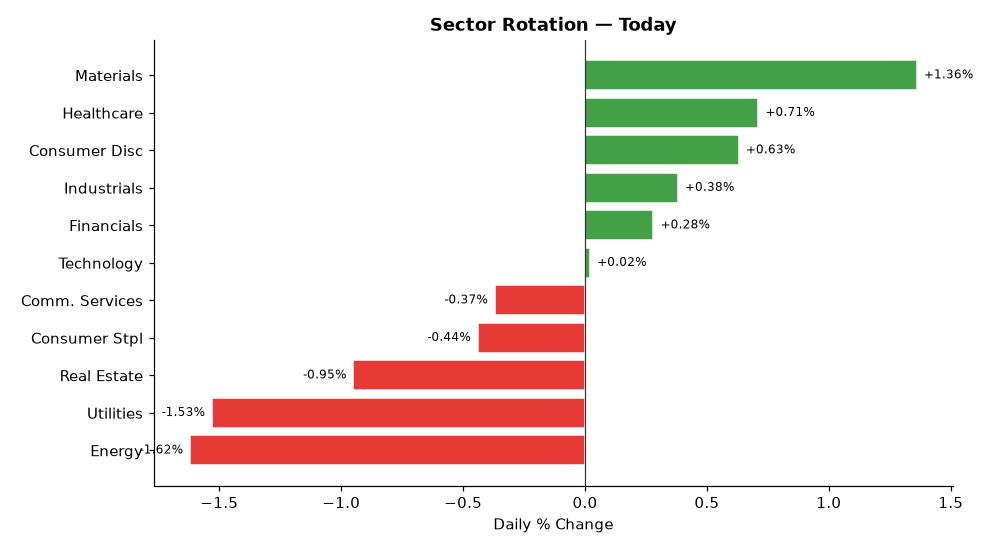
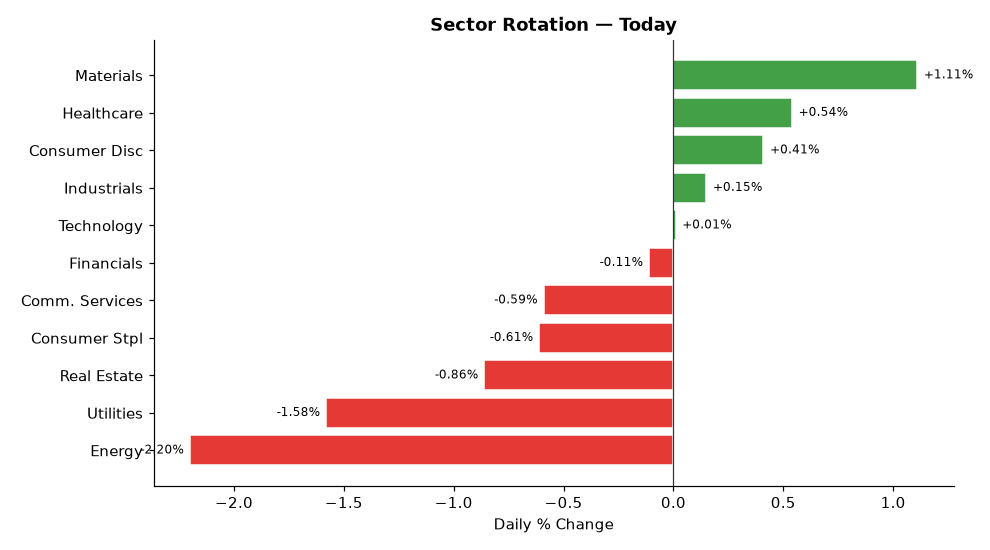
deploy: b7fadf5b06deb90e7ebb92f278722414bdd9750d

diff --git a/index.html b/index.html
@@ -4,7 +4,7 @@
   <meta charset="UTF-8">
   <meta name="viewport" content="width=device-width,initial-scale=1">
   <meta http-equiv="Cache-Control" content="no-cache,no-store,must-revalidate">
-  <title>Stock Breakout Screener — 2026-08-05 15:10</title>
+  <title>Stock Breakout Screener — 2026-08-05 15:36</title>
   <style>
     *{box-sizing:border-box;margin:0;padding:0}
     body{font-family:'Segoe UI',Arial,sans-serif;background:#f0f2f5;
@@ -34,7 +34,7 @@
 
 <div class="hdr">
   <h1>📈 Stock Breakout Screener</h1>
-  <p>Updated: 2026-08-05 15:10 UTC &nbsp;·&nbsp; Phase: Regular Market Hours &nbsp;·&nbsp;
+  <p>Updated: 2026-08-05 15:36 UTC &nbsp;·&nbsp; Phase: Regular Market Hours &nbsp;·&nbsp;
      129 stocks screened &nbsp;·&nbsp; Top 5 by conviction score</p>
 </div>
 
@@ -69,7 +69,7 @@
             </span>
           </div>
           <ul style="margin:0;padding-left:18px;font-size:13px;
-                     color:#333;line-height:1.8"><li style="margin:5px 0"><span style="background:#ffebee;color:#b71c1c;padding:2px 7px;border-radius:4px;font-size:11px;">❌</span> Volume: <b>0.8× average</b> — Above-average activity</li><li style="margin:5px 0"><span style="background:#ffebee;color:#b71c1c;padding:2px 7px;border-radius:4px;font-size:11px;">❌</span> Candle: close <b>$283.14</b> vs open <b>$278.00</b> (+1.8%) — regular market close</li><li style="margin:5px 0"><span style="background:#e8f5e9;color:#2e7d32;padding:2px 7px;border-radius:4px;font-size:11px;">✅</span> 200-Day MA: price <b>$283.14</b> vs MA <b>$271.78</b> — <b>✅ Above</b> long-term trend</li><li style="margin:5px 0"><span style="background:#e8f5e9;color:#2e7d32;padding:2px 7px;border-radius:4px;font-size:11px;">✅</span> Inst. ownership: <b>93.2%</b> · MFI: <b>64.7</b> · Market cap: <b>$80.1B</b></li></ul>
+                     color:#333;line-height:1.8"><li style="margin:5px 0"><span style="background:#ffebee;color:#b71c1c;padding:2px 7px;border-radius:4px;font-size:11px;">❌</span> Volume: <b>0.2× average</b> — Above-average activity</li><li style="margin:5px 0"><span style="background:#ffebee;color:#b71c1c;padding:2px 7px;border-radius:4px;font-size:11px;">❌</span> Candle: close <b>$283.30</b> vs open <b>$285.00</b> (-0.6%) — regular market close</li><li style="margin:5px 0"><span style="background:#e8f5e9;color:#2e7d32;padding:2px 7px;border-radius:4px;font-size:11px;">✅</span> 200-Day MA: price <b>$283.30</b> vs MA <b>$271.77</b> — <b>✅ Above</b> long-term trend</li><li style="margin:5px 0"><span style="background:#e8f5e9;color:#2e7d32;padding:2px 7px;border-radius:4px;font-size:11px;">✅</span> Inst. ownership: <b>93.2%</b> · MFI: <b>64.9</b> · Market cap: <b>$79.7B</b></li></ul>
         </div>
         <div style="background:#fff;border:1px solid #ddd;border-radius:10px;
                     padding:16px 20px;margin-bottom:12px;
@@ -77,24 +77,7 @@
           <div style="display:flex;align-items:center;gap:10px;
                       flex-wrap:wrap;margin-bottom:10px">
             <span style="font-size:22px">🟡</span>
-            <span style="font-size:19px;font-weight:700">2. EBAY</span>
-            <span style="font-size:12px;color:#666">Consumer Disc</span>
-            <span style="margin-left:auto;background:#1a237e;color:#fff;
-                         padding:3px 12px;border-radius:12px;
-                         font-size:13px;font-weight:600">
-              11/17
-            </span>
-          </div>
-          <ul style="margin:0;padding-left:18px;font-size:13px;
-                     color:#333;line-height:1.8"><li style="margin:5px 0"><span style="background:#ffebee;color:#b71c1c;padding:2px 7px;border-radius:4px;font-size:11px;">❌</span> Volume: <b>0.9× average</b> — Above-average activity</li><li style="margin:5px 0"><span style="background:#e8f5e9;color:#2e7d32;padding:2px 7px;border-radius:4px;font-size:11px;">✅</span> Candle: close <b>$109.61</b> vs open <b>$106.20</b> (+3.2%) — regular market close</li><li style="margin:5px 0"><span style="background:#e8f5e9;color:#2e7d32;padding:2px 7px;border-radius:4px;font-size:11px;">✅</span> 200-Day MA: price <b>$109.61</b> vs MA <b>$102.13</b> — <b>✅ Above</b> long-term trend</li><li style="margin:5px 0"><span style="background:#e8f5e9;color:#2e7d32;padding:2px 7px;border-radius:4px;font-size:11px;">✅</span> Inst. ownership: <b>95.2%</b> · MFI: <b>39.7</b> · Market cap: <b>$48.2B</b></li><li style="margin:5px 0"><span style="background:#e8f5e9;color:#2e7d32;padding:2px 7px;border-radius:4px;font-size:11px;">✅</span> Last similar breakout: <b>Apr 30, 2026</b> → <b>+9.4%</b> over 10 trading days</li></ul>
-        </div>
-        <div style="background:#fff;border:1px solid #ddd;border-radius:10px;
-                    padding:16px 20px;margin-bottom:12px;
-                    box-shadow:0 2px 6px rgba(0,0,0,.07)">
-          <div style="display:flex;align-items:center;gap:10px;
-                      flex-wrap:wrap;margin-bottom:10px">
-            <span style="font-size:22px">🟡</span>
-            <span style="font-size:19px;font-weight:700">3. MSFT</span>
+            <span style="font-size:19px;font-weight:700">2. MSFT</span>
             <span style="font-size:12px;color:#666">Technology</span>
             <span style="margin-left:auto;background:#1a237e;color:#fff;
                          padding:3px 12px;border-radius:12px;
@@ -103,7 +86,7 @@
             </span>
           </div>
           <ul style="margin:0;padding-left:18px;font-size:13px;
-                     color:#333;line-height:1.8"><li style="margin:5px 0"><span style="background:#ffebee;color:#b71c1c;padding:2px 7px;border-radius:4px;font-size:11px;">❌</span> Volume: <b>0.3× average</b> — Above-average activity</li><li style="margin:5px 0"><span style="background:#ffebee;color:#b71c1c;padding:2px 7px;border-radius:4px;font-size:11px;">❌</span> Candle: close <b>$489.94</b> vs open <b>$496.36</b> (-1.3%) — regular market close</li><li style="margin:5px 0"><span style="background:#e8f5e9;color:#2e7d32;padding:2px 7px;border-radius:4px;font-size:11px;">✅</span> 200-Day MA: price <b>$489.94</b> vs MA <b>$401.37</b> — <b>✅ Above</b> long-term trend</li><li style="margin:5px 0"><span style="background:#e8f5e9;color:#2e7d32;padding:2px 7px;border-radius:4px;font-size:11px;">✅</span> Inst. ownership: <b>75.4%</b> · MFI: <b>78.2</b> · Market cap: <b>$3638.5B</b></li><li style="margin:5px 0"><span style="background:#e8f5e9;color:#2e7d32;padding:2px 7px;border-radius:4px;font-size:11px;">✅</span> Last similar breakout: <b>Jul 30, 2026</b> → <b>+8.6%</b> over 10 trading days</li></ul>
+                     color:#333;line-height:1.8"><li style="margin:5px 0"><span style="background:#ffebee;color:#b71c1c;padding:2px 7px;border-radius:4px;font-size:11px;">❌</span> Volume: <b>0.3× average</b> — Above-average activity</li><li style="margin:5px 0"><span style="background:#ffebee;color:#b71c1c;padding:2px 7px;border-radius:4px;font-size:11px;">❌</span> Candle: close <b>$490.05</b> vs open <b>$496.36</b> (-1.3%) — regular market close</li><li style="margin:5px 0"><span style="background:#e8f5e9;color:#2e7d32;padding:2px 7px;border-radius:4px;font-size:11px;">✅</span> 200-Day MA: price <b>$490.05</b> vs MA <b>$401.37</b> — <b>✅ Above</b> long-term trend</li><li style="margin:5px 0"><span style="background:#e8f5e9;color:#2e7d32;padding:2px 7px;border-radius:4px;font-size:11px;">✅</span> Inst. ownership: <b>75.4%</b> · MFI: <b>78.3</b> · Market cap: <b>$3639.1B</b></li><li style="margin:5px 0"><span style="background:#e8f5e9;color:#2e7d32;padding:2px 7px;border-radius:4px;font-size:11px;">✅</span> Last similar breakout: <b>Jul 30, 2026</b> → <b>+8.6%</b> over 10 trading days</li></ul>
         </div>
         <div style="background:#fff;border:1px solid #ddd;border-radius:10px;
                     padding:16px 20px;margin-bottom:12px;
@@ -111,7 +94,7 @@
           <div style="display:flex;align-items:center;gap:10px;
                       flex-wrap:wrap;margin-bottom:10px">
             <span style="font-size:22px">🟡</span>
-            <span style="font-size:19px;font-weight:700">4. EQIX</span>
+            <span style="font-size:19px;font-weight:700">3. EQIX</span>
             <span style="font-size:12px;color:#666">Real Estate</span>
             <span style="margin-left:auto;background:#1a237e;color:#fff;
                          padding:3px 12px;border-radius:12px;
@@ -120,7 +103,7 @@
             </span>
           </div>
           <ul style="margin:0;padding-left:18px;font-size:13px;
-                     color:#333;line-height:1.8"><li style="margin:5px 0"><span style="background:#ffebee;color:#b71c1c;padding:2px 7px;border-radius:4px;font-size:11px;">❌</span> Volume: <b>1.2× average</b> — Above-average activity</li><li style="margin:5px 0"><span style="background:#e8f5e9;color:#2e7d32;padding:2px 7px;border-radius:4px;font-size:11px;">✅</span> Candle: close <b>$1051.53</b> vs open <b>$1012.78</b> (+3.8%) — regular market close</li><li style="margin:5px 0"><span style="background:#e8f5e9;color:#2e7d32;padding:2px 7px;border-radius:4px;font-size:11px;">✅</span> 200-Day MA: price <b>$1051.53</b> vs MA <b>$1020.65</b> — <b>✅ Above</b> long-term trend</li><li style="margin:5px 0"><span style="background:#e8f5e9;color:#2e7d32;padding:2px 7px;border-radius:4px;font-size:11px;">✅</span> Inst. ownership: <b>100.1%</b> · MFI: <b>60.5</b> · Market cap: <b>$102.9B</b></li></ul>
+                     color:#333;line-height:1.8"><li style="margin:5px 0"><span style="background:#ffebee;color:#b71c1c;padding:2px 7px;border-radius:4px;font-size:11px;">❌</span> Volume: <b>1.2× average</b> — Above-average activity</li><li style="margin:5px 0"><span style="background:#e8f5e9;color:#2e7d32;padding:2px 7px;border-radius:4px;font-size:11px;">✅</span> Candle: close <b>$1051.53</b> vs open <b>$1012.78</b> (+3.8%) — regular market close</li><li style="margin:5px 0"><span style="background:#e8f5e9;color:#2e7d32;padding:2px 7px;border-radius:4px;font-size:11px;">✅</span> 200-Day MA: price <b>$1051.53</b> vs MA <b>$1020.65</b> — <b>✅ Above</b> long-term trend</li><li style="margin:5px 0"><span style="background:#e8f5e9;color:#2e7d32;padding:2px 7px;border-radius:4px;font-size:11px;">✅</span> Inst. ownership: <b>100.1%</b> · MFI: <b>60.7</b> · Market cap: <b>$102.8B</b></li></ul>
         </div>
         <div style="background:#fff;border:1px solid #ddd;border-radius:10px;
                     padding:16px 20px;margin-bottom:12px;
@@ -128,7 +111,7 @@
           <div style="display:flex;align-items:center;gap:10px;
                       flex-wrap:wrap;margin-bottom:10px">
             <span style="font-size:22px">🟡</span>
-            <span style="font-size:19px;font-weight:700">5. EMR</span>
+            <span style="font-size:19px;font-weight:700">4. EMR</span>
             <span style="font-size:12px;color:#666">Industrials</span>
             <span style="margin-left:auto;background:#1a237e;color:#fff;
                          padding:3px 12px;border-radius:12px;
@@ -137,7 +120,24 @@
             </span>
           </div>
           <ul style="margin:0;padding-left:18px;font-size:13px;
-                     color:#333;line-height:1.8"><li style="margin:5px 0"><span style="background:#ffebee;color:#b71c1c;padding:2px 7px;border-radius:4px;font-size:11px;">❌</span> Volume: <b>0.5× average</b> — Above-average activity</li><li style="margin:5px 0"><span style="background:#e8f5e9;color:#2e7d32;padding:2px 7px;border-radius:4px;font-size:11px;">✅</span> Candle: close <b>$163.59</b> vs open <b>$157.27</b> (+4.0%) — regular market close</li><li style="margin:5px 0"><span style="background:#e8f5e9;color:#2e7d32;padding:2px 7px;border-radius:4px;font-size:11px;">✅</span> 200-Day MA: price <b>$163.59</b> vs MA <b>$141.27</b> — <b>✅ Above</b> long-term trend</li><li style="margin:5px 0"><span style="background:#e8f5e9;color:#2e7d32;padding:2px 7px;border-radius:4px;font-size:11px;">✅</span> Inst. ownership: <b>85.5%</b> · MFI: <b>86.8</b> · Market cap: <b>$91.6B</b></li></ul>
+                     color:#333;line-height:1.8"><li style="margin:5px 0"><span style="background:#ffebee;color:#b71c1c;padding:2px 7px;border-radius:4px;font-size:11px;">❌</span> Volume: <b>0.6× average</b> — Above-average activity</li><li style="margin:5px 0"><span style="background:#e8f5e9;color:#2e7d32;padding:2px 7px;border-radius:4px;font-size:11px;">✅</span> Candle: close <b>$164.26</b> vs open <b>$157.27</b> (+4.4%) — regular market close</li><li style="margin:5px 0"><span style="background:#e8f5e9;color:#2e7d32;padding:2px 7px;border-radius:4px;font-size:11px;">✅</span> 200-Day MA: price <b>$164.26</b> vs MA <b>$141.28</b> — <b>✅ Above</b> long-term trend</li><li style="margin:5px 0"><span style="background:#e8f5e9;color:#2e7d32;padding:2px 7px;border-radius:4px;font-size:11px;">✅</span> Inst. ownership: <b>85.5%</b> · MFI: <b>86.8</b> · Market cap: <b>$92.0B</b></li></ul>
+        </div>
+        <div style="background:#fff;border:1px solid #ddd;border-radius:10px;
+                    padding:16px 20px;margin-bottom:12px;
+                    box-shadow:0 2px 6px rgba(0,0,0,.07)">
+          <div style="display:flex;align-items:center;gap:10px;
+                      flex-wrap:wrap;margin-bottom:10px">
+            <span style="font-size:22px">🟡</span>
+            <span style="font-size:19px;font-weight:700">5. AWK</span>
+            <span style="font-size:12px;color:#666">Utilities</span>
+            <span style="margin-left:auto;background:#1a237e;color:#fff;
+                         padding:3px 12px;border-radius:12px;
+                         font-size:13px;font-weight:600">
+              10/17
+            </span>
+          </div>
+          <ul style="margin:0;padding-left:18px;font-size:13px;
+                     color:#333;line-height:1.8"><li style="margin:5px 0"><span style="background:#fffde7;color:#f57f17;padding:2px 7px;border-radius:4px;font-size:11px;">⚠</span> Volume: <b>1.8× average</b> — Above-average activity</li><li style="margin:5px 0"><span style="background:#e8f5e9;color:#2e7d32;padding:2px 7px;border-radius:4px;font-size:11px;">✅</span> Candle: close <b>$134.01</b> vs open <b>$129.95</b> (+3.1%) — regular market close</li><li style="margin:5px 0"><span style="background:#e8f5e9;color:#2e7d32;padding:2px 7px;border-radius:4px;font-size:11px;">✅</span> 200-Day MA: price <b>$134.01</b> vs MA <b>$130.60</b> — <b>✅ Above</b> long-term trend</li><li style="margin:5px 0"><span style="background:#e8f5e9;color:#2e7d32;padding:2px 7px;border-radius:4px;font-size:11px;">✅</span> Inst. ownership: <b>101.1%</b> · MFI: <b>52.9</b> · Market cap: <b>$26.4B</b></li></ul>
         </div>
 
 
@@ -169,37 +169,19 @@
         <tr>
           <td style="font-weight:700;text-align:left;padding-left:10px">
             🟡 ECL</td>
-          <td style="background:#ffcdd2">0.8×</td>
-          <td style="background:#ffcdd2">+1.8%</td>
+          <td style="background:#ffcdd2">0.2×</td>
+          <td style="background:#ffcdd2">-0.6%</td>
           <td style="background:#c8e6c9">
             ▲ Above</td>
           <td style="background:#c8e6c9">
             93.2%</td>
           <td style="background:#c8e6c9">
-            64.7</td>
+            64.9</td>
           <td style="background:#c8e6c9">Materials</td>
           <td style="background:#c8e6c9">
-            43.8%</td>
+            45.5%</td>
           <td style="background:#ffcdd2">
             N/A</td>
-          <td style="font-weight:800;font-size:15px">11/17</td>
-        </tr>
-        <tr>
-          <td style="font-weight:700;text-align:left;padding-left:10px">
-            🟡 EBAY</td>
-          <td style="background:#ffcdd2">0.9×</td>
-          <td style="background:#c8e6c9">+3.2%</td>
-          <td style="background:#c8e6c9">
-            ▲ Above</td>
-          <td style="background:#c8e6c9">
-            95.2%</td>
-          <td style="background:#ffcdd2">
-            39.7</td>
-          <td style="background:#fff9c4">Consumer Disc</td>
-          <td style="background:#c8e6c9">
-            127.8%</td>
-          <td style="background:#c8e6c9">
-            +9.4%</td>
           <td style="font-weight:800;font-size:15px">11/17</td>
         </tr>
         <tr>
@@ -212,10 +194,10 @@
           <td style="background:#c8e6c9">
             75.4%</td>
           <td style="background:#c8e6c9">
-            78.2</td>
+            78.3</td>
           <td style="background:#ffcdd2">Technology</td>
           <td style="background:#c8e6c9">
-            181.9%</td>
+            172.6%</td>
           <td style="background:#c8e6c9">
             +8.6%</td>
           <td style="font-weight:800;font-size:15px">10/17</td>
@@ -230,10 +212,10 @@
           <td style="background:#c8e6c9">
             100.1%</td>
           <td style="background:#c8e6c9">
-            60.5</td>
+            60.7</td>
           <td style="background:#ffcdd2">Real Estate</td>
           <td style="background:#c8e6c9">
-            46.4%</td>
+            45.7%</td>
           <td style="background:#ffcdd2">
             N/A</td>
           <td style="font-weight:800;font-size:15px">10/17</td>
@@ -241,8 +223,8 @@
         <tr>
           <td style="font-weight:700;text-align:left;padding-left:10px">
             🟡 EMR</td>
-          <td style="background:#ffcdd2">0.5×</td>
-          <td style="background:#c8e6c9">+4.0%</td>
+          <td style="background:#ffcdd2">0.6×</td>
+          <td style="background:#c8e6c9">+4.4%</td>
           <td style="background:#c8e6c9">
             ▲ Above</td>
           <td style="background:#c8e6c9">
@@ -251,7 +233,25 @@
             86.8</td>
           <td style="background:#ffcdd2">Industrials</td>
           <td style="background:#c8e6c9">
-            129.7%</td>
+            103.1%</td>
+          <td style="background:#ffcdd2">
+            N/A</td>
+          <td style="font-weight:800;font-size:15px">10/17</td>
+        </tr>
+        <tr>
+          <td style="font-weight:700;text-align:left;padding-left:10px">
+            🟡 AWK</td>
+          <td style="background:#fff9c4">1.8×</td>
+          <td style="background:#c8e6c9">+3.1%</td>
+          <td style="background:#c8e6c9">
+            ▲ Above</td>
+          <td style="background:#c8e6c9">
+            101.1%</td>
+          <td style="background:#fff9c4">
+            52.9</td>
+          <td style="background:#ffcdd2">Utilities</td>
+          <td style="background:#c8e6c9">
+            48.1%</td>
           <td style="background:#ffcdd2">
             N/A</td>
           <td style="font-weight:800;font-size:15px">10/17</td>
@@ -278,57 +278,57 @@
         <tr>
           <td style="text-align:left;padding-left:10px;font-weight:600">
             #1 Materials</td>
-          <td style="background:#e8f5e9;color:#2e7d32;font-weight:700">+1.36%</td>
+          <td style="background:#e8f5e9;color:#2e7d32;font-weight:700">+1.11%</td>
         </tr>
         <tr>
           <td style="text-align:left;padding-left:10px;font-weight:600">
             #2 Healthcare</td>
-          <td style="background:#e8f5e9;color:#2e7d32;font-weight:700">+0.71%</td>
+          <td style="background:#e8f5e9;color:#2e7d32;font-weight:700">+0.54%</td>
         </tr>
         <tr>
           <td style="text-align:left;padding-left:10px;font-weight:600">
             #3 Consumer Disc</td>
-          <td style="background:#e8f5e9;color:#2e7d32;font-weight:700">+0.63%</td>
+          <td style="background:#e8f5e9;color:#2e7d32;font-weight:700">+0.41%</td>
         </tr>
         <tr>
           <td style="text-align:left;padding-left:10px;font-weight:600">
             #4 Industrials</td>
-          <td style="background:#e8f5e9;color:#2e7d32;font-weight:700">+0.38%</td>
+          <td style="background:#e8f5e9;color:#2e7d32;font-weight:700">+0.15%</td>
         </tr>
         <tr>
           <td style="text-align:left;padding-left:10px;font-weight:600">
-            #5 Financials</td>
-          <td style="background:#e8f5e9;color:#2e7d32;font-weight:700">+0.28%</td>
+            #5 Technology</td>
+          <td style="background:#e8f5e9;color:#2e7d32;font-weight:700">+0.01%</td>
         </tr>
         <tr>
           <td style="text-align:left;padding-left:10px;font-weight:600">
-            #6 Technology</td>
-          <td style="background:#e8f5e9;color:#2e7d32;font-weight:700">+0.02%</td>
+            #6 Financials</td>
+          <td style="background:#ffebee;color:#c62828;font-weight:700">-0.11%</td>
         </tr>
         <tr>
           <td style="text-align:left;padding-left:10px;font-weight:600">
             #7 Comm. Services</td>
-          <td style="background:#ffebee;color:#c62828;font-weight:700">-0.37%</td>
+          <td style="background:#ffebee;color:#c62828;font-weight:700">-0.59%</td>
         </tr>
         <tr>
           <td style="text-align:left;padding-left:10px;font-weight:600">
             #8 Consumer Stpl</td>
-          <td style="background:#ffebee;color:#c62828;font-weight:700">-0.44%</td>
+          <td style="background:#ffebee;color:#c62828;font-weight:700">-0.61%</td>
         </tr>
         <tr>
           <td style="text-align:left;padding-left:10px;font-weight:600">
             #9 Real Estate</td>
-          <td style="background:#ffebee;color:#c62828;font-weight:700">-0.95%</td>
+          <td style="background:#ffebee;color:#c62828;font-weight:700">-0.86%</td>
         </tr>
         <tr>
           <td style="text-align:left;padding-left:10px;font-weight:600">
             #10 Utilities</td>
-          <td style="background:#ffebee;color:#c62828;font-weight:700">-1.53%</td>
+          <td style="background:#ffebee;color:#c62828;font-weight:700">-1.58%</td>
         </tr>
         <tr>
           <td style="text-align:left;padding-left:10px;font-weight:600">
             #11 Energy</td>
-          <td style="background:#ffebee;color:#c62828;font-weight:700">-1.62%</td>
+          <td style="background:#ffebee;color:#c62828;font-weight:700">-2.20%</td>
         </tr>
     </table>
   </div>
@@ -367,7 +367,7 @@
         <li><b>Scoring weights:</b>
             Inst.Own(3) · Sector(3) · Volume(2) · Breakout(2) ·
             MA200(2) · MFI(2) · History(2) · IV(1) = 17pts max</li>
-        <li><b>Run time:</b> 2026-08-05 15:10 UTC — Market phase: Regular Market Hours</li>
+        <li><b>Run time:</b> 2026-08-05 15:36 UTC — Market phase: Regular Market Hours</li>
       </ul>
     </div>
 
